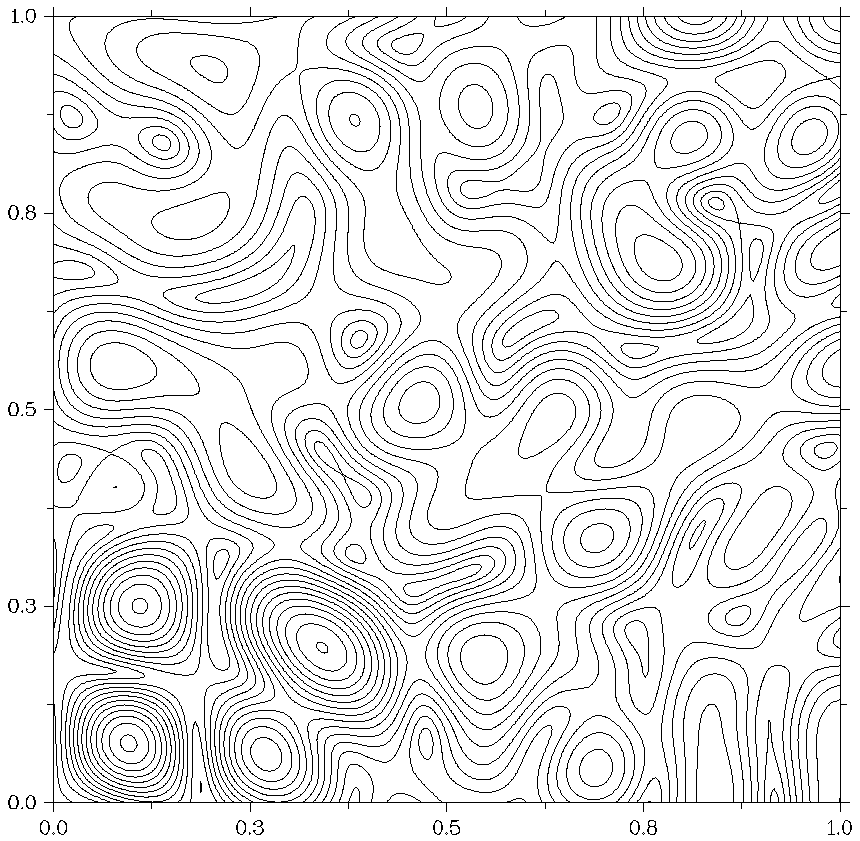
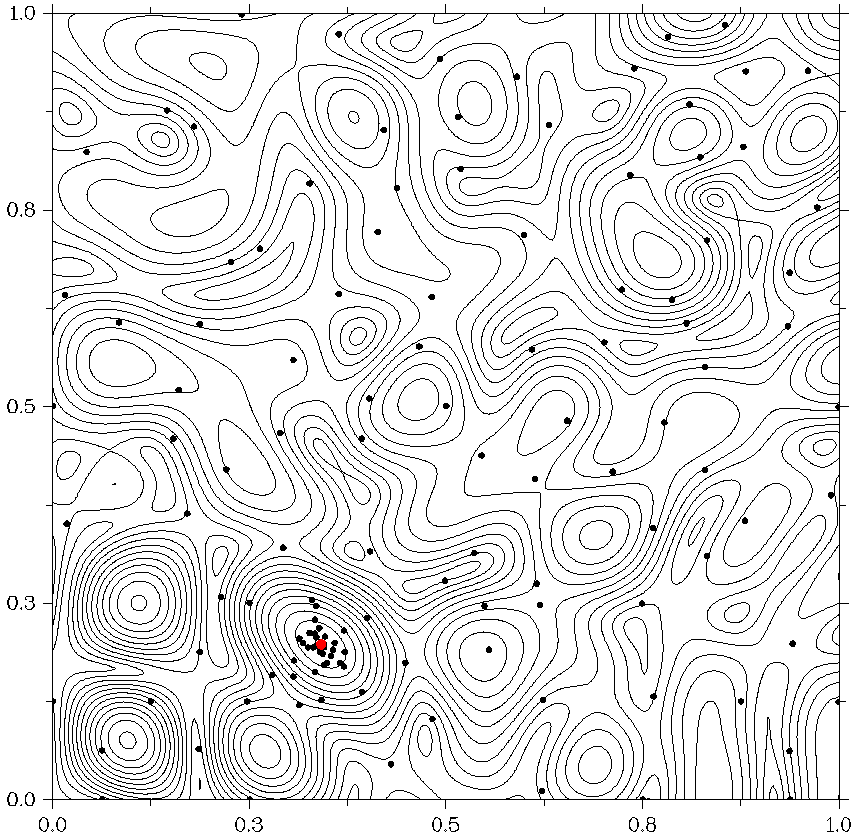
New experimental results

Changed region(s): [[0.0, 0.0, 0.9977, 0.9917], [0.8767, 0.5578, 0.907, 0.5888], [0.5442, 0.5268, 0.5744, 0.5578]]

diff --git a/2020/PAVT_Nested_Full/pavt_paper.tex b/2020/PAVT_Nested_Full/pavt_paper.tex
@@ -30,7 +30,8 @@
 \begin{document}
 \mainmatter              % start of a contribution
 %
-\title{ Combining local and global methods in a parallel nested optimization scheme 
+\title{ Использование локального и глобального поиска в параллельной схеме вложенной оптимизации
+%Combining local and global search in a parallel nested optimization scheme 
 \thanks{This study was supported by the Russian Science Foundation, project No.\,16-11-10150.}
 }
 %
@@ -38,7 +39,7 @@
 %                                     also used for the TOC unless
 %                                     \toctitle is used
 %
-\author{Konstantin Barkalov\letter\orcidID{0000-0001-5273-2471} \and Ilya Lebedev\orcidID{0000-0002-8736-0652} \and Maria Kocheganova \orcidID{0000-0002-4722-6299}}
+\author{Konstantin Barkalov\letter\orcidID{0000-0001-5273-2471} \and Ilya Lebedev\orcidID{0000-0002-8736-0652} \and Maria Kocheganova \orcidID{0000-0002-4722-6299} \and Victor Gergel \orcidID{0000-0002-4013-2329}}
 %
 \authorrunning{Konstantin Barkalov et al.} % abbreviated author list (for running head)
 %
@@ -53,7 +54,7 @@
 
 \begin{abstract}
 
-В статье рассматриваются задачи глобальной оптимизации и численные методы их решения. О характере зависимости целевой функции от ее параметров делается предположение, что она является многоэкстремальной лишь по некоторым из переменных, а зависимость от остальных параметров носит локальный характер. Задачи такого типа могут возникать при идентификации математических моделей по результатам экспериментов. Предложена параллельная схема вычислений, которая учитывает данную особенность. Новая схема основана на идее рекурсивной оптимизации, когда на верхнем уровне рекурсии проводится оптимизации по параметрам, влияющим глобально (с помощью алгоритма глобального поиска), а на нижнем -- решение задач локальной оптимизации (с помощью локальных методов). Возникающие при этом локальные подзадачи не будут оказывать влияния друг на друга, и их решение можно проводить параллельно. Проведены численные эксперименты на нескольких сотнях тестовых задач, подтверждающие эффективность предложенной схемы параллельных вычислений.
+В статье рассматриваются задачи глобальной оптимизации и численные методы их решения. О характере зависимости целевой функции от ее параметров делается предположение, что она является многоэкстремальной лишь по некоторым из переменных, а зависимость от остальных параметров носит локальный характер. Задачи такого типа могут возникать при идентификации математических моделей по результатам экспериментов. Предложена параллельная схема вычислений, которая учитывает данную особенность. Новая схема основана на идее рекурсивной оптимизации, когда на верхнем уровне рекурсии проводится оптимизации по параметрам, влияющим глобально (с помощью алгоритма глобального поиска), а на нижнем -- решение задач локальной оптимизации (с помощью локального метода). Возникающие при этом локальные подзадачи не будут оказывать влияния друг на друга, и их решение можно проводить параллельно. Проведены численные эксперименты на нескольких сотнях тестовых задач, подтверждающие эффективность предложенной схемы параллельных вычислений.
 
 
 \keywords{Global optimization $\cdot$ Local optimization $\cdot$ Recursive optimization scheme $\cdot$ Parallel algorithms}
@@ -170,10 +171,10 @@ are given in \cite{Strongin2000,Sergeyev2013}. As an illustration, two evolvents
 
 \begin{figure}
 \center
-\begin{minipage}{0.45\linewidth}
+\begin{minipage}{0.48\linewidth}
 \center{\includegraphics[width=1.0\linewidth]{fig1b.JPG} \\ (a)}
 \end{minipage}
-\begin{minipage}{0.45\linewidth}
+\begin{minipage}{0.48\linewidth}
 \center{\includegraphics[width=1.0\linewidth]{fig1c.JPG} \\ (b)}
 \end{minipage}
 \caption{Evolvents in two dimensions with (a) $m=4$ and (b) $m=5$}
@@ -227,7 +228,7 @@ The algorithm terminates if the condition $\Delta_{t_j}<\epsilon$ is satisfied a
 This method of parallelization has the following justification. The characteristics of intervals (\ref{Rule_R}) used in the method can be considered as probability measures of the global minimum point location in these intervals. Inequalities (\ref{Rule_Max}) arrange intervals according to their characteristics, and trials are carried out in parallel in the first $p$ intervals with the largest probabilities.
 
 Various modifications of this algorithm and the corresponding theory of
-convergence are given in \cite{Strongin2000,Sergeyev2013}.
+convergence are given in \cite{Strongin2000,Sergeyev2013,Barkalov2018,Strongin2018}.
 
 
 %Параллельный алгоритм - пример работы? Нужен ли?
@@ -252,28 +253,29 @@ x^{k+1} = x^k + s^k d^k,
 
 В набор вычисляемых локальных характеристик $I^k=I(x^k)$ могут входить: значение функции $f^k = f( x^k )$, вектор градиента $\nabla f^k = \nabla f(x^k)$, матрица вторых производных (гессиан) $\Gamma_k=\Gamma^f(x^k)$. Какой именно набор характеристик измеряется -- зависит как от свойств решаемой задачи, так и от выбранного метода оптимизации.
 
-В задачах локальной оптимизации, возникающих в приложениях, априорная информация о функциях бывает достаточно ограниченной. Например, может предполагаться лишь локальный характер зависимости функции от параметров, тогда как значения градиента (а, тем более, и гессиана) являются неизвестными. В этом случае применяются методы прямого поиска, которые не используют каких-либо предположений о гладкости минимизируемой функции. При поиске минимума эти методы измеряют только значения функции. Правила размещения точек итераций в них основываются на некоторых эвристических логических схемах. 
+В задачах локальной оптимизации, возникающих в приложениях, априорная информация о функциях бывает достаточно ограниченной. Например, может предполагаться лишь локальный характер зависимости функции от параметров, тогда как значения градиента (а, тем более, гессиана) являются неизвестными. В этом случае применяются методы прямого поиска, которые не используют каких-либо предположений о гладкости минимизируемой функции. При поиске минимума эти методы измеряют только значения функции. Правила размещения точек итераций в них основываются на некоторых эвристических логических схемах. 
 
 Одними из популярных методов прямого поиска являются Hooke--Jeeves method \cite{HookJeeves} and Nelder--Mead method \cite{NelderMead}. Несмотря на кажущуюся простоту и теоретическую необоснованность методов прямого поиска, они хорошо зарекомендовали себя в реальных расчетах. Это можно объяснить следующим образом. Многие методы гладкой оптимизации чрезвычайно чувствительны к наличию вычислительных ошибок в значениях функций, превращающих теоретически гладкую функцию в фактически негладкую. За счет этого в реальных расчетах они зачастую утрачивают те положительные свойства, которые для них обещает теория. Использование методов прямого поиска позволяет в этих условиях добиться лучших результатов.
 
 %Стандартные библиотеки - будем использовать одну из них
 
 
-
-
-
-
 \section{Numerical experiments}
 
-%Сравнение разных локальных методов
-%Эффективность распараллеливания 
+Схема параллельных вычислений, описанная в предыдущих разделах, была реализована в программной системе Globalizer, разрабатываемой в ННГУ им. Н.И. Лобачевского \cite{globalizerSystem,Sysoyev2017}. 
+%Дать характеристики системы, указать поддержваемые технологии и компиляторы
+Система разработана на языке C++, ...
 
-Исследование масштабируемости предложенного параллельного алгоритма будем проводить, решая серию из 100 тестовых задач, в которых можно выделить параметры, влияющие локально. С целью имитации прикладных задач, обладающих указанным свойством, будем использовать функции вида 
-\[
+%Дать технические характеристики суперкомпьютера
+Вычислительные эксперименты проводились на суперкомпьютере . 
+Узел суперкомпьютера располагает ... 
+
+С целью имитации прикладных задач, в которых можно выделить параметры, влияющие локально, при проведении экспериментов использовались тестовые функции вида 
+\begin{equation}\label{test_problem}
 f(x,y) = G(y)+R(x),
-\]
+\end{equation}
 где $G(y)$ -- многоэкстремальная функция размерности $N=2$, а $R(x)$ -- унимодальная функция размертности $N \gg 2$.
-В качестве многоэкстрмальной части задачи будем рассматривать функции 
+В качестве многоэкстрмальной части задачи рассматривались функции 
 \begin{eqnarray} \nonumber \label{vagris}
 G(y)= -&\left\{\left(\sum^{7}_{i=1}\sum^{7}_{j=1}A_{ij}g_{ij}(y)+B_{ij}h_{ij}(y)\right)^2+\right. \\
 &\left.\left(\sum^{7}_{i=1}\sum^{7}_{j=1}C_{ij}g_{ij}(y)+D_{ij}h_{ij}(y)\right)^2\right\}^{1/2},\\ \nonumber
@@ -286,33 +288,63 @@ where
 \end{eqnarray}
 and coefficients $A_{ij}, B_{ij}, C_{ij}, D_{ij}$  are taken uniformly in the interval $[-1,1]$.
 Данный класс функций часто используется для тестирования алгоритмов глобальной оптимизации.  
-В качестве локальной части задачи будем использовать модификацию функции Розенброка 
+В качестве локальной части задачи использовалась модифицированная функция Розенброка 
 \[
 R(x)= \sum_{i=1}^{N-1}{\left[(1-x_i)^2+100(x_{i+1}-x_i^2)^2\right]}, -2 \leq x_i \leq 2 , 1\leq i\leq N,
 \]
-размерности $N-2$, в которой точка экстремума смещается случайным образом в области поиска с помощью линейного преобразования координат.
+в которой точка экстремума смещалась случайным образом в области поиска с помощью линейного преобразования координат.
 
 В качестве примера на Fig.~\ref{fig_level}(a),(b) приведены линии уровня одной пары функций $G(y)$ и $R(x)$. Данные функции являются сложными для соответствующих методов глобальной и локальной оптимизации, т.к. функции $G(y)$ являются существенно многоэкстремальными, а функции $R(x)$ обладают ярко выраженной овражной структурой.
 
 \begin{figure}
 \center
-\begin{minipage}{0.45\linewidth}
+\begin{minipage}{0.48\linewidth}
 \center{\includegraphics[width=1.0\linewidth]{grishagin.png} \\ (a)}
 \end{minipage}
-\begin{minipage}{0.45\linewidth}
-\center{\includegraphics[width=1.0\linewidth]{grishagin.png} \\ (b)}
+\begin{minipage}{0.48\linewidth}
+\center{\includegraphics[width=1.0\linewidth]{rosenbrock.png} \\ (b)}
 \end{minipage}
 \caption{Линии уровня функций (a) $G(y)$ и (b) $R(x)$}
 \label{fig_level}
 \end{figure}
 
+На Fig.~\ref{fig_level} отмечены также точки испытаний, выполненных global search algorithm and Hooke--Jeeves method при решении соответствующих задач. Расположение точек испытаний наглядно иллюстрирует как многоэкстремальность функции $G(y)$ (точки испытаний образуют неравномерную сетку в области поиска), так и овражность функции $R(x)$ (точки испытаний вытянуты вдоль дна оврага).
 
-\section{Conclusion}
+
+В первой серии экспериментов были решены 100 задач вида (\ref{test_problem}), в которых размерность локальных подзадач равнялась $N=50$.
+Задача считалась решенной, если в процессе минимизации функции $G(y)$ алгоритм глобального поиска сгенерировал точку очередного испытания $y^k$ в $\epsilon$-окрестности глобального минимума $y^*$, т.е. $\left\|y^* - y^k\right\|\leq\epsilon$, где $\epsilon = 10^{-2}$. 
+При этом точность поиска минимума при минимизации унимодальной функции $R(x)$ выбиралась в 1000 раз меньше, т.е. $\delta = 10^{-5}$.
+В алгоритме глобального поиска использовался параметр $r=3.0$ из (\ref{Rule_R}) и параметр построения развертки $m=10$; использованный локальный метод не имел дополнительных параметров.
+
+%Дать характеристики параллельного запуска - число узлов, процессов, процессоров и т.п.
+
+В table \ref{tab1} отражено среднее число итераций $K_{av}$, выполненных алгоритмом глобального поиска при минимизации функции $G(y)$, среднее время $T_{av}$ решения задачи в целом, а также ускорение по времени $S$  в зависимости от числа $p$ используемых MPI-процессов. 
+
+\begin{table}
+\centering
+\caption{Результаты решения серии задач вида}\label{tab1}
+\begin{tabular}{cccc}
+\hline\noalign{\smallskip}
+ $\;\;\;p\;\;\;$  &  $\;\;\;K_{av}\;\;\;$ &  $\;\;\;T_{av}\;\;\;$ & $\;\;\;S\;\;\;$ \\
+\noalign{\smallskip}\hline\noalign{\smallskip}
+ 1  & 349.4  & 9.14 & ---  \\
+ 16 & 25.6   & 0.70 & 13.2 \\
+ 32 & 12.9   & 0.37 & 24.6 \\
+\noalign{\smallskip}\hline
+\end{tabular}
+\end{table}
+
+%Привести описание экспериментов на задаче размерности 100+
+
+
+\section{Conclusion} %Заключение надо поправить!!!
 
 Результаты проведенных экспериментов на серии задач оптимизации, в которых можно выделить многоэкстремальную и унимодальную части задачи, показывают, что предложенная в работе схема организации параллельных вычислений обладает хорошим потенциалом параллелизма. 
-В частности, при решении серии из 100 задач с числом переменных 52 (из которых две переменных оказывали глобальное влияние на целевую функцию, а пятьдесят влияли локально) получено линейное ускорение (в среднем). 
-А решении задач с числом локально влияющих переменных $N=100$ было получено ускорение ...
-Проведенное исследование позволяет с уверенностью говорить о решении существенно многомерных задач оптимизации указанного класса.
+В частности, при решении серии из 100 задач с общим числом переменных 52 (из которых две переменных оказывали глобальное влияние на целевую функцию, а пятьдесят влияли локально) получено линейное ускорение (в среднем). 
+
+А при решении задач с числом локально влияющих переменных $N=100$ было получено ускорение ...
+
+%Проведенное исследование позволяет с уверенностью говорить о решении существенно многомерных задач оптимизации указанного класса.
 
 %Направлением дальнейших исследований может являться как расширение числа используемых локальных и глобальных методов, так и расширения круга рассматриваемых задач, включая задачи оптимизации с ограничениями, а также задачи многокритериальной оптимизации.
 
